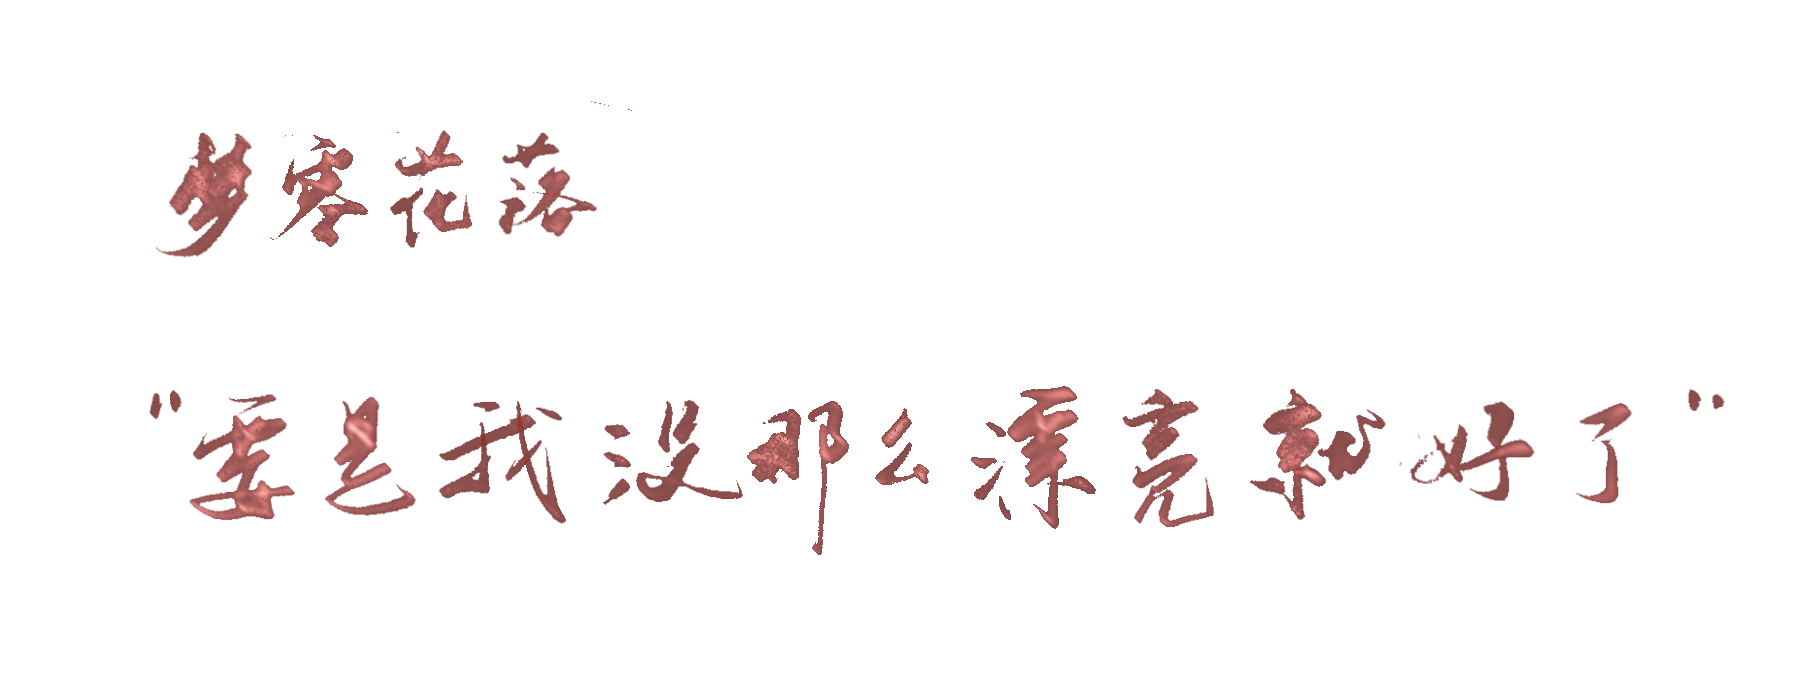
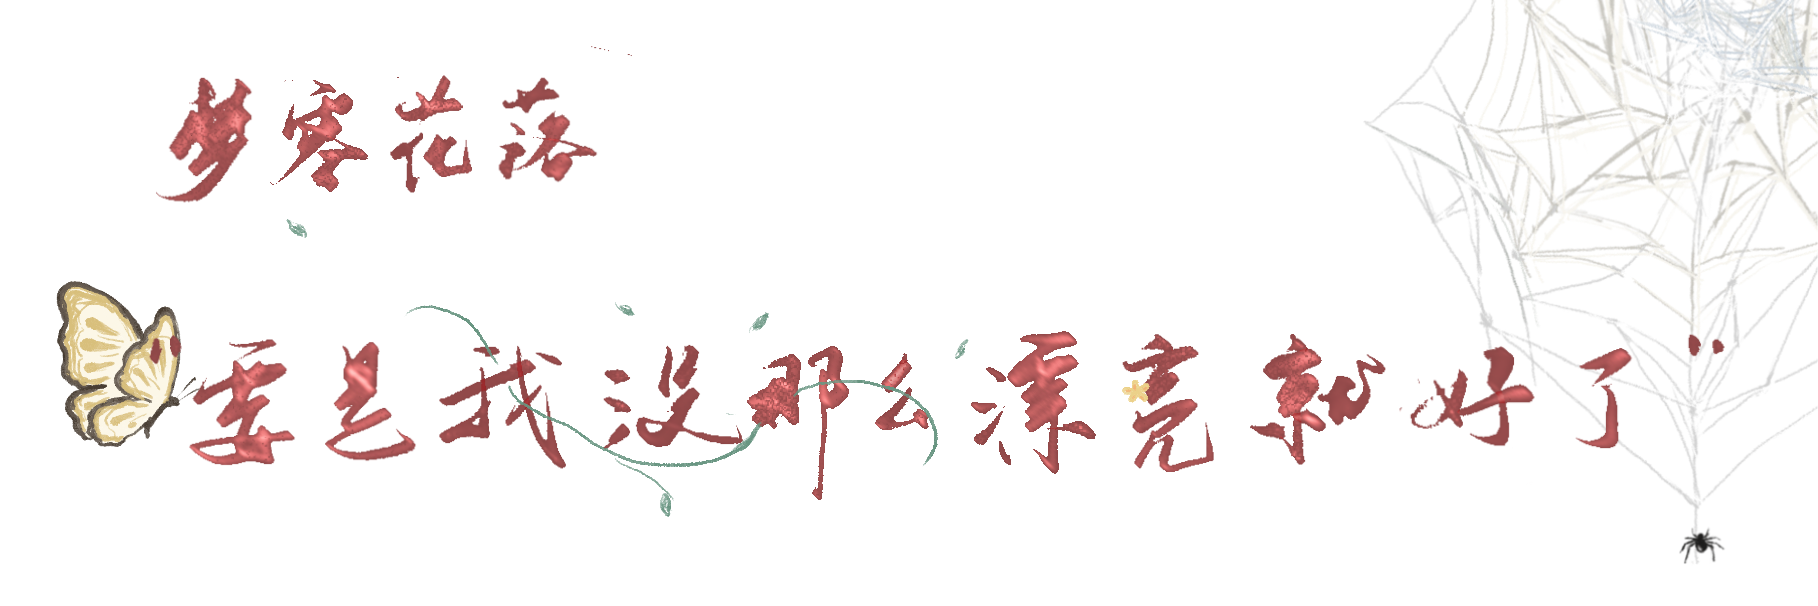
chpt1-title

diff --git a/index.html b/index.html
@@ -95,7 +95,8 @@
 <!-- chpt1&&2 -->
 <div class="all-container" id="comehere">
   <div class="chpt" id="chpt1">
-    <h2> 梦零花落：“要是我没那么<span class="piaoliang">漂亮</span>就好了” </h2>
+	  <div class="chpt-title"><img src="image/chpt1.png"></div>
+<!--    <h2> 梦零花落：“要是我没那么<span class="piaoliang">漂亮</span>就好了” </h2>-->
     <div class="chpt1-text">
       <div class="chpt1-1">
         <p>梦子（化名）今年16岁，在一个二线城市读书。</p>

diff --git a/main-style.css b/main-style.css
@@ -47,7 +47,15 @@ body {
   width: 100%;
   height: 100%;
 }
-
+.chpt-title{
+	width: 100%;
+	align-items: center;
+	text-align: center;
+}
+.chpt-title img{
+	width: 800px;
+	margin: 120px auto 0;
+}
 
 h1,
 h2,
